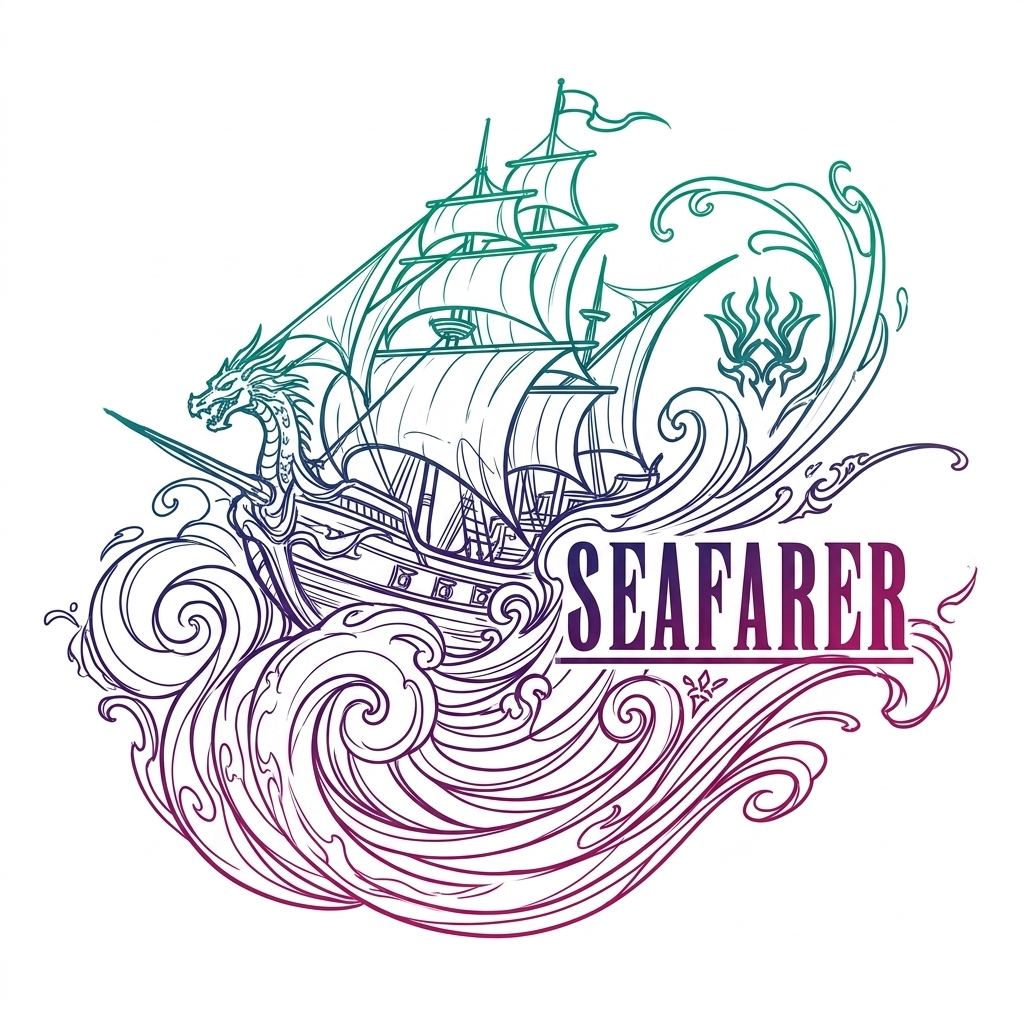
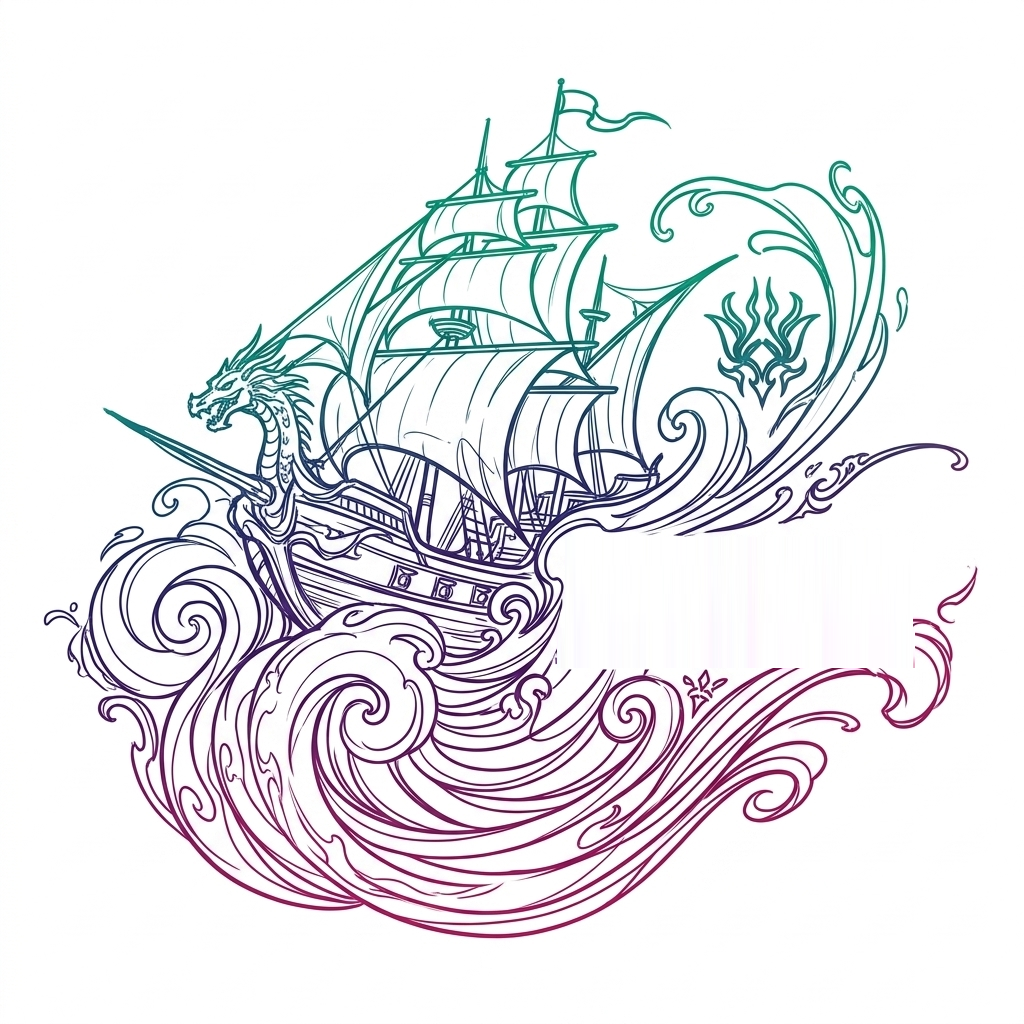
P7/P8 stubs: fulfillment daemon interfaces + reveal app design brief
- fulfillment_stub.py: PaymentSource / FulfillmentLedger / OfferBuilder
  adapters encoding the ADR-0001 trust architecture (fail-closed
  reconciler, mandatory claim tokens, launcher-id identity, SQLite
  ledger, supply-budget hook, testnet-first flags)
- TODO-P7: design brief + wallet-compat knowledge + testnet11 go/no-go
- TODO-P8: reveal experience contract, JS shipgen port plan with
  golden-vector conformance, blind-mint opacity rules

Changed region(s): [[0.5312, 0.5312, 0.9062, 0.6562]]

diff --git a/engine/fulfillment_stub.py b/engine/fulfillment_stub.py
@@ -1,0 +1,140 @@
+# SPDX-License-Identifier: MIT
+"""P7 INTERFACE STUBS — fulfillment daemon (NOT implemented this session).
+
+These interfaces encode the architecture decided in ADR-0001 from the BEPE
+LOVE production survey, so the P7 implementation session can start from a
+reviewed contract instead of a blank page. See docs/TODO-P7-fulfillment.md
+for the full design brief.
+
+Trust architecture (adopted from the reference, hardened):
+  - offer file IS the payment rail (Secure the Mint) — no custodial watcher
+  - client claims are hints -> `pending`; only the daemon's own chain
+    observation promotes to `confirmed` (three-state contract)
+  - reconciler FAILS CLOSED: an incomplete chain scan may grow, never
+    shrink, the confirmed set
+  - claim tokens are single-use and MANDATORY (the reference's
+    backwards-compat fall-through is an unauthenticated soft-DoS)
+  - identity is launcher_id/coin_id from our own mint records — never
+    display-name regex against a third-party indexer
+  - state lives in the daemon's own transactional store (SQLite), keyed
+    per token with uniqueness constraints; any KV copy is a read model
+
+Every method that would touch the chain takes `network` ("testnet11" |
+"mainnet") and every mutating method has a dry_run flag — testnet-first.
+"""
+from __future__ import annotations
+
+import abc
+from dataclasses import dataclass
+from enum import Enum
+
+
+class PaymentState(str, Enum):
+    DISPENSED = "dispensed"      # offer handed out; nothing observed on-chain
+    PENDING = "pending"          # client reported a take (hint, untrusted)
+    CONFIRMED = "confirmed"      # daemon observed the spend on-chain
+    EXPIRED = "expired"          # pending TTL elapsed; slot returned to pool
+    FULFILLED = "fulfilled"      # chest rolled + offer delivered + audit-logged
+
+
+@dataclass(frozen=True)
+class TierPurchase:
+    """One confirmed pass purchase, as the roller needs it."""
+    coin_id: str            # payment coin id (64 hex) — the HMAC roll seed input
+    tier_name: str          # tiers.json name
+    pass_ordinal: int       # 1-based purchase sequence within the tier
+    buyer_address: str      # xch1... for offer delivery
+    block_height: int
+    network: str
+
+
+class PaymentSource(abc.ABC):
+    """Adapter over the payment-detection surface (Secure the Mint / coin-set
+    API / full node). STM's exact surface is external — keep this thin.
+
+    Implementations planned: StmWebhookSource, CoinsetPollingSource (fallback,
+    fail-closed), TestnetFixtureSource (dry runs from a fixtures file).
+    """
+
+    @abc.abstractmethod
+    def poll_confirmed(self, since_height: int) -> list[TierPurchase]:
+        """Return newly CONFIRMED tier purchases at/after the given height.
+        MUST raise (not return partial data) if the scan is incomplete —
+        the ledger only ever grows from complete scans (ADR-0001 B2)."""
+
+    @abc.abstractmethod
+    def current_height(self) -> int: ...
+
+
+class FulfillmentLedger(abc.ABC):
+    """Append-only source of truth for what happened to every purchase.
+    Backing store: SQLite with UNIQUE(coin_id); every transition writes an
+    audit row with timestamp, actor, and manifest hash where applicable."""
+
+    @abc.abstractmethod
+    def record_purchase(self, p: TierPurchase) -> int:
+        """Idempotent: returns the existing pass_ordinal if coin_id is known,
+        else assigns the next ordinal for the tier and the next global
+        start_index atomically. A payment must NEVER be fulfilled twice."""
+
+    @abc.abstractmethod
+    def state_of(self, coin_id: str) -> PaymentState: ...
+
+    @abc.abstractmethod
+    def mark_fulfilled(self, coin_id: str, manifest_hash: str,
+                       offer_id: str, dry_run: bool = False) -> None: ...
+
+    @abc.abstractmethod
+    def supply_consumed(self) -> int:
+        """Generated + grail count so far — the OQ-1 supply budget hook:
+        the daemon must refuse to dispense past supply.public_mint_budget."""
+
+
+class OfferBuilder(abc.ABC):
+    """Wallet-side operations over Sage's local RPC.
+
+    Endpoint: https://127.0.0.1:9257 with mTLS client certs (spec Risk 5).
+    Two fulfillment strategies behind a flag (P7 prompt):
+      - "claim":  mint the rolled NFTs from the project DID, then build a
+                  0-XCH claim-style offer the buyer accepts
+      - "stm":    embed fulfillment per Secure the Mint's model (offer built
+                  at purchase time carries the payment)
+    """
+
+    @abc.abstractmethod
+    def mint_nfts(self, metadata_paths: list[str], did: str,
+                  royalty_basis_points: int, network: str,
+                  dry_run: bool = False) -> list[str]:
+        """Mint from the project DID; returns launcher ids."""
+
+    @abc.abstractmethod
+    def build_claim_offer(self, launcher_ids: list[str], buyer_address: str,
+                          network: str, dry_run: bool = False) -> str:
+        """Returns offer text ('offer1...')."""
+
+
+class FulfillmentDaemon:
+    """Orchestration skeleton: poll -> record -> roll -> mint -> offer -> audit.
+
+    NOT IMPLEMENTED — P7 session. The loop below documents the intended
+    order of operations and idempotency points.
+    """
+
+    def __init__(self, source: PaymentSource, ledger: FulfillmentLedger,
+                 offers: OfferBuilder, network: str = "testnet11"):
+        self.source = source
+        self.ledger = ledger
+        self.offers = offers
+        self.network = network
+
+    def tick(self) -> None:
+        raise NotImplementedError(
+            "P7 session. Intended flow per purchase:\n"
+            "  1. ledger.record_purchase (idempotent; assigns ordinal+start_index)\n"
+            "  2. if state >= FULFILLED: skip (never fulfill twice)\n"
+            "  3. supply budget check (OQ-1) — refuse past public_mint_budget\n"
+            "  4. chest_roller roll (deterministic from coin_id)\n"
+            "  5. metadata_gen for the manifest\n"
+            "  6. offers.mint_nfts + build_claim_offer (or STM strategy)\n"
+            "  7. deliver offer; ledger.mark_fulfilled(manifest_hash, offer_id)\n"
+            "All steps re-runnable; crash between 4 and 7 must resume, not re-roll.")

diff --git a/docs/TODO-P8-reveal-app.md b/docs/TODO-P8-reveal-app.md
@@ -1,0 +1,62 @@
+# TODO — P8: Chest-opening reveal web app (design brief)
+
+**Status:** not built this session. This brief captures the integration
+contract so P8 can be built without re-opening engine decisions.
+
+## Experience (spec P8)
+
+Underwater scene matching the buyer's tier zone (palette.json zone
+sub-palettes are the color source of truth) → pixel-art chest on the seabed
+→ chunky no-AA opening animation → NFTs surface one by one with
+rarity-tiered effects:
+
+| Rarity | Effect |
+|---|---|
+| common | bubbles |
+| uncommon | bubble burst + glint |
+| rare | light shaft |
+| epic | zone-colored glow ring |
+| legendary | full-screen shimmer |
+| mythic | full-screen aura + palette flash |
+| grail | bespoke sequence (one per grail set) |
+
+Plus: 60-second Sage wallet + offer-acceptance onboarding (spec Risk 4),
+tier odds table rendered from tiers.json + weights.json (transparency,
+spec Risk 3), and a shareable "I struck [rarity] at [depth]" card.
+
+## Integration contract (fixed by this session's engine)
+
+- **Input:** chest manifest JSON (`chest-manifest-v1`) fetched from the
+  fulfillment service by opaque offer id AFTER the take confirms — never
+  before (blind mint).
+- **Verification:** ship a JS re-implementation of `shipgen` (HMAC-SHA256
+  DRBG + roll engine, both pure and documented in ADR-0002/0003) so holders
+  can verify any chest in-browser post-reveal from (salt, coin_id). The
+  golden vectors in `tests/test_drbg.py` and `tests/test_determinism.py`
+  are the cross-language conformance suite.
+- **Art:** `render_engine.py --render-manifest` outputs; reveal pulls
+  2048px PNGs. Pre-reveal placeholder art must live on a short-cache path
+  (reveal-day flip vs immutable image caching — reference-repo scar,
+  ADR-0001 B6/B7).
+- **Odds page data:** generate from tiers.json at build time; never
+  hand-copy numbers (single source of truth).
+
+## Patterns to carry from the reference (ADR-0001)
+
+- Wallet module shape: one `wallet.js`, generic `requestRpc`, session
+  restore, `wallet:change` event bus; **vendored** WalletConnect bundles
+  (no CDN on a page that requests spends).
+- Offer-download fallback for wallets without `chia_takeOffer` — the
+  reference documented it but never shipped it; we ship it.
+- `stats.json`-style pre-aggregated payload so the pre-reveal page never
+  needs (and can never leak) the full manifest.
+- Graceful anonymous degradation: wallet connection unlocks, never gates.
+
+## Remaining work
+
+1. React prototype with mock manifests (single-file artifact first).
+2. JS shipgen port + conformance run against the Python golden vectors.
+3. Share-card generator (server-side Pillow, reuse the reference's
+   OG-image approach — but showcase tiers/odds, never "rarest pieces").
+4. Production plan: hosting, CDN cache tiers per asset class, reveal-day
+   cache-flip procedure.

diff --git a/docs/TODO-P7-fulfillment.md b/docs/TODO-P7-fulfillment.md
@@ -1,0 +1,56 @@
+# TODO — P7: Offer-file fulfillment daemon (design brief)
+
+**Status:** interface stubs only (`engine/fulfillment_stub.py`). Do NOT build
+against mainnet until the testnet11 checklist at the bottom is green.
+
+## What it is
+
+A local Python service that turns confirmed dive-pass payments into delivered
+chests: payment → deterministic roll → mint from project DID → offer file →
+buyer. Spec sections 5.1/5.4 + Risk 5.
+
+## Architecture (decided, ADR-0001)
+
+| Concern | Decision | Provenance |
+|---|---|---|
+| Payment detection | Adapter (`PaymentSource`); STM webhook primary, coin-set polling fallback; **fail closed on partial scans** | BEPE reconciler bug: partial MintGarden pagination shrank the confirmed set and re-dispensed sold offers |
+| State | SQLite ledger, per-coin rows, `UNIQUE(coin_id)`; three states pending→confirmed→fulfilled; append-only audit log with manifest hash | BEPE two-phase ledger (their strongest pattern), upgraded from CAS-on-JSON-blob to real transactions |
+| Idempotency | `record_purchase` idempotent by coin_id; fulfillment resumable mid-crash without re-rolling; claim tokens single-use and **mandatory** | BEPE's advisory claim-token fall-through = soft-DoS; we have no legacy clients |
+| Identity | launcher_id/coin_id tracked from our own mint records | BEPE regexed `#NNNN` from indexer display names — silently corruptible |
+| Wallet ops | Sage local RPC, `https://127.0.0.1:9257`, mTLS client certs; both fulfillment strategies behind a flag (claim-offer vs STM-embedded) | spec Risk 5 (validated pattern) |
+| Blind-mint opacity | Dispense responses carry an opaque offer id — never token number, traits, or rarity | BEPE deliberately returns traits pre-take (re-roll-for-rares); fatal for a blind mint |
+| Supply budget | Refuse to dispense past `supply.public_mint_budget` (44,000) — OQ-1 hook | spec's own tier table over-allocates by ~200–400 at full sellout |
+
+## Wallet-compat knowledge to inherit (do not rediscover)
+
+- Sage approves only `requiredNamespaces` at WalletConnect pairing —
+  `chia_takeOffer` and `chia_signMessageByAddress` must be required.
+- Tri-state take-offer result classification: broadcast / rejected /
+  **unclear** (Sage returns bare `{id: <64-hex>}`; some wallets ack sparsely).
+  Unclear = possibly broadcast → pending, never an error to the user.
+- Multi-shape response probing for addresses (`chia_getAddress` then
+  `chia_getCurrentAddress`) and signatures (`publicKey|pubkey|public_key`).
+- Mojo amounts as BigInt-safe strings end-to-end (1 XCH = 10^12 mojos).
+
+## Remaining work
+
+1. STM integration surface — **ask the owner**: webhook, polling, or offer
+   files pre-built by STM tooling? (The P7 prompt anticipates this question.)
+2. SQLite schema + migrations; crash-resume test (kill between roll and
+   deliver, restart, assert no double-fulfillment, no re-roll).
+3. Sage RPC client with mTLS cert bootstrap + health check.
+4. Reconciler cron + manual `audit-on-chain` recovery command (BEPE needed
+   the manual one in production).
+5. Load test: 200 concurrent purchases (P7 prompt requirement); target
+   p95 fulfillment < 30s with the roll itself < 100ms.
+6. Ops: structured logs, dead-letter queue for failed deliveries,
+   `--dry-run` on every mutating command.
+
+## Testnet11 go/no-go checklist
+
+- [ ] end-to-end on testnet11: pay → detect → roll → mint from DID → offer → accept → verify chest with `chest_roller.py verify`
+- [ ] double-payment replay test (same coin_id twice) → single fulfillment
+- [ ] crash-resume test green
+- [ ] supply-budget refusal test at simulated budget edge
+- [ ] load test green
+- [ ] OQ-1 supply ruling applied in tiers.json